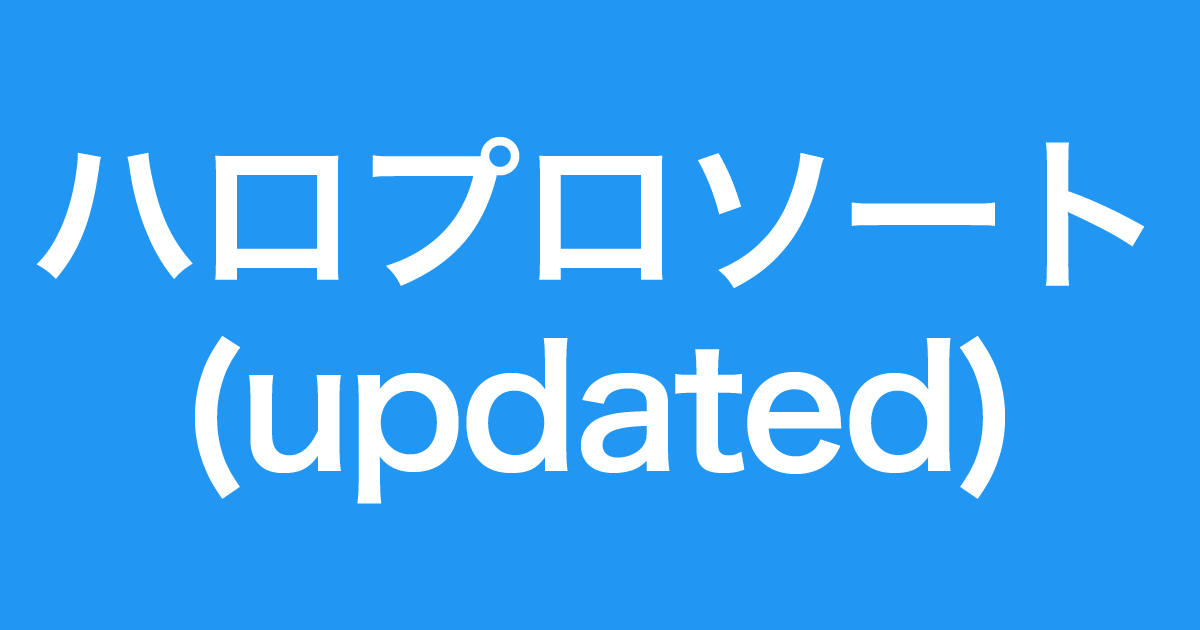
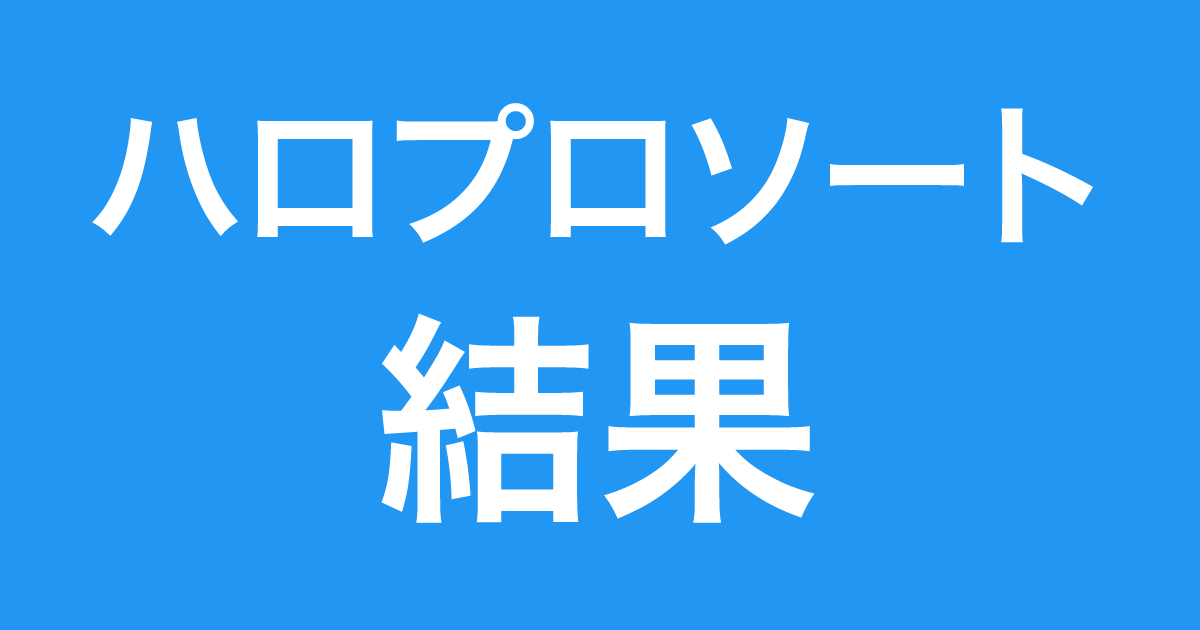
スタイルの微調整

Changed region(s): [[0.1542, 0.4825, 0.8633, 0.8444], [0.0308, 0.1508, 0.9558, 0.4524]]

diff --git a/src/App.tsx b/src/App.tsx
@@ -19,11 +19,12 @@ interface State {
   round: number;
 }
 
+const TITLE = "ハロプロソート";
+
 export default class App extends React.Component<Props, State> {
   render() {
-    const title = "ハロプロソート(updated)";
     return (
-      <Layout title={title}>
+      <Layout title={TITLE}>
         <Router basename={process.env.PUBLIC_URL}>
           <Route exact path="/" component={Home} />
           <Route exact path="/pandasan" component={Panda} />
@@ -40,13 +41,23 @@ export default class App extends React.Component<Props, State> {
 
 class Home extends React.Component<Props, State> {
   render() {
+    function helpAlert() {
+      alert("選択を繰り返すことで自分だけのランキングを作ることができます。\n今まで気づかなかった「好き」を再発見するためにご利用ください。\nソートの結果はあなたにとってのランキングであり、メンバーの優劣を意味しません。")
+    }
     return (
       <Grid container item xs={12} justifyContent="center" style={{ textAlign: "center" }} spacing={1}>
         <Grid container item xs={12} justifyContent="center" spacing={0}>
-          <h2>ハロプロソート(updated)</h2>
+          <h1>{TITLE}</h1>
         </Grid>
         <Grid container item xs={12} justifyContent="center" spacing={0}>
-          <p>(updated)なハロプロソートです。<br />ソートアルゴリズムに<a href="https://en.wikipedia.org/wiki/Merge-insertion_sort">Ford-Johnson法</a>を採用しています。<br /><br />定期更新終了を宣言された本家様を勝手に引き継ぎ、新技術を反映しつつ鋭意改良中です。<br />(2021/12/1 メンバー情報の更新)</p>
+          <p>ハロプロソートは、あなたの毎日に小さな喜びを届けていきます。小さな選択が、いつしか大きなランキングとなって、人生を輝かせていく…</p>
+          <p>そんなコンセプトで、お送りするツールです。</p>
+        </Grid>
+        <Grid container item xs={12} justifyContent="center" spacing={0}>
+          <p>(2021/12/1 メンバー情報の更新)</p>
+        </Grid>
+        <Grid container item xs={12} justifyContent="center" spacing={0}>
+          <p><a href="./" onClick={helpAlert}>🔰ハロプロソートとは？🔰</a></p>
         </Grid>
         <Grid container item xs={12} justifyContent="center"><Button href="hp" style={{ background: 'linear-gradient(45deg, #2196f3 30%, #21cbf3 90%)', color: 'white', fontWeight: 'bold', height: 40 }}>ハロプロ全員ソート</Button></Grid>
         <Grid container item xs={12} justifyContent="center"><Button href="hptrainee" style={{ background: 'linear-gradient(45deg, #2196f3 30%, #21cbf3 90%)', color: 'white', fontWeight: 'bold', height: 40 }}>ハロプロ全員ソート(研修生含む)</Button></Grid>
@@ -56,14 +67,15 @@ class Home extends React.Component<Props, State> {
         <Grid container item xs={12} justifyContent="center"><Button href="pandasan" style={{ background: 'linear-gradient(45deg, #11A316 30%, #11BF16 90%)', color: 'white', fontWeight: 'bold', height: 40 }}>🐼パンダさんソート🐼</Button></Grid>
         */}
         <Grid container item xs={12} justifyContent="center" spacing={0}>
+          <p>定期更新終了を宣言された本家様を引き継ぎました。</p>
+          <p>ソートアルゴリズムに<a href="https://en.wikipedia.org/wiki/Merge-insertion_sort">Ford-Johnson法</a>を採用しています。</p>
           <p><a href="https://twitter.com/xxgentaroxx" target="_blank" rel="noreferrer">@xxgentaroxx</a>大先生による、歴代ハロプロメンバーの<a href="https://github.com/xxgentaroxx/HP_DB" target="_blank" rel="noreferrer">オープンデータ</a>から自動生成しています。</p>
           <p>「引き分け」ボタンを1回押すと比較回数が4-5回減ります。急いでいる方は活用してください。</p>
-          <p>所属は「直近まで所属している(た)グループ・ユニットのうち、加入日が最も早いもの」としています。</p>
         </Grid>
         <Grid container item xs={12} justifyContent="center" spacing={0}>
           <p>
-            <Button href="https://twitter.com/emolga587" target="_blank" variant="contained" size="small" style={{ backgroundColor: "#00ACEE", color: "#ffffff", textTransform: "none", margin: 1 }}><FontAwesomeIcon icon={faTwitter} />&nbsp;Twitter</Button>
-            <Button href="https://github.com/emolga587/hpsort2" target="_blank" variant="contained" size="small" style={{ backgroundColor: "#000000", color: "#ffffff", textTransform: "none", margin: 1 }}><FontAwesomeIcon icon={faGithub} />&nbsp;GitHub</Button>
+            <Button href="https://twitter.com/emolga587" target="_blank" size="small" style={{ backgroundColor: "#00ACEE", color: "#ffffff", textTransform: "none", margin: 2 }}><FontAwesomeIcon icon={faTwitter} />&nbsp;Twitter</Button>
+            <Button href="https://github.com/emolga587/hpsort2" target="_blank" size="small" style={{ backgroundColor: "#000000", color: "#ffffff", textTransform: "none", margin: 2 }}><FontAwesomeIcon icon={faGithub} />&nbsp;GitHub</Button>
           </p>
         </Grid>
       </Grid>

diff --git a/src/components/SortPage.tsx b/src/components/SortPage.tsx
@@ -39,7 +39,7 @@ export default class SortPage extends React.Component<Props, State> {
       let rankTable: JSX.Element[] = [];
       let tweet_url: string = "https://twitter.com/intent/tweet?text=" + encodeURI(`${this.props.sortName}結果\n`);
       let max_output = 10;
-      if (this.props.members.length < 15) {
+      if (this.props.members.length < 20) {
         max_output = 5;
       }
 
@@ -70,7 +70,7 @@ export default class SortPage extends React.Component<Props, State> {
           <h2 style={{ marginBottom: 0 }}>{this.props.sortName}結果</h2>
         </Grid>
         <Grid container item xs={12} justifyContent="center">
-          <p style={{ marginTop: 0, marginBottom: 10 }}>【ラウンド{this.sort.currentRound} - {this.sort.progress}%】</p>
+          <p style={{ marginTop: 0, marginBottom: 10 }}>ラウンド{this.sort.currentRound} - {this.sort.progress}%</p>
         </Grid>
         <Grid container item md={6} xs={12} justifyContent="center">
           <Grid container item xs={12} justifyContent="center">
@@ -118,7 +118,7 @@ export default class SortPage extends React.Component<Props, State> {
               <h2 style={{ marginBottom: 0 }}>{this.props.sortName}</h2>
             </Grid>
             <Grid container item xs={12} justifyContent="center">
-              <p style={{ marginTop: 0, marginBottom: 5 }}>【ラウンド{this.sort.currentRound} - {this.sort.progress}%】</p>
+              <p style={{ marginTop: 0, marginBottom: 5 }}>ラウンド{this.sort.currentRound} - {this.sort.progress}%</p>
             </Grid>
             <Grid container item xs={6} justifyContent="center">
               <MemberPicture name={this.sort.lastChallenge[0]}
@@ -151,7 +151,7 @@ export default class SortPage extends React.Component<Props, State> {
               </Button>
             </Grid>
             <Grid container item xs={12} justifyContent="center">
-              <Button variant="contained" size="large" style={{ backgroundColor: "#444", color: "white" }}
+              <Button size="large" style={{ backgroundColor: "#444", color: "white" }}
                 onClick={() => {
                   if (this.sort.backable) {
                     this.sort.back();

diff --git a/public/index.html b/public/index.html
@@ -7,7 +7,7 @@
   <meta name="viewport" content="width=device-width, initial-scale=1" />
   <meta name="theme-color" content="#000000" />
   <meta name="description" content="(updated)なハロプロソートです。定期更新終了を宣言された本家様を勝手に引き継ぎ、新技術を反映しつつ鋭意改良中です。" />
-  <meta property="og:title" content="ハロプロソート(updated)" />
+  <meta property="og:title" content="ハロプロソート" />
   <meta property="og:description" content="(updated)なハロプロソートです。定期更新終了を宣言された本家様を勝手に引き継ぎ、新技術を反映しつつ鋭意改良中です。" />
   <meta property="og:image" content="http://16be.at/sort/ogp.png" />
   <meta name="twitter:card" content="summary_large_image" />
@@ -26,8 +26,7 @@
       work correctly both with client-side routing and a non-root public URL.
       Learn how to configure a non-root public URL by running `npm run build`.
     -->
-  <link href="https://fonts.googleapis.com/css2?family=Kosugi+Maru&display=swap" rel="stylesheet" />
-  <title>ハロプロソート(updated)</title>
+  <title>ハロプロソート</title>
   <script>
     console.warn("🐼パンダさんソートはこちら🐼\nhttps://16be.at/sort/pandasan");
   </script>

diff --git a/src/components/Header.tsx b/src/components/Header.tsx
@@ -12,11 +12,10 @@ interface State { }
 export default class Header extends React.Component<Props, State> {
   render() {
     return (
-      <AppBar position="static" style={{background: 'linear-gradient(45deg, #2196F3 30%, #21CBF3 70%, #2196F3 90%)'}}>
+      <AppBar position="static" style={{color: 'white', backgroundColor: "rgb(33, 150, 243)", boxShadow: "none"}}>
         <Toolbar>
-          <Typography variant="h5" style={{flexGrow: 1, fontFamily: "Kosugi Maru"}}>{this.props.children}</Typography>
+          <Typography variant="h5" style={{flexGrow: 1, fontWeight: 500}}>{this.props.children}</Typography>
           <IconButton
-            aria-label="account of current user"
             aria-controls="menu-appbar"
             aria-haspopup="true"
             color="inherit"

diff --git a/src/index.css b/src/index.css
@@ -1,8 +1,6 @@
 body {
   margin: 0;
-  font-family: -apple-system, BlinkMacSystemFont, 'Segoe UI', 'Roboto', 'Oxygen',
-    'Ubuntu', 'Cantarell', 'Fira Sans', 'Droid Sans', 'Helvetica Neue',
-    sans-serif;
+  font-family: "Hiragino Kaku Gothic Pro", "BIZ UDPGothic", sans-serif;
   -webkit-font-smoothing: antialiased;
   -moz-osx-font-smoothing: grayscale;
 }

diff --git a/src/App.css b/src/App.css
@@ -4,12 +4,19 @@
 
 .MuiTypography-h5 {
   font-size: 1em;
-}
-
-h2 {
-  font-family: 'Kosugi', sans-serif;
+  font-family: "Hiragino Kaku Gothic Pro", "BIZ UDPGothic", sans-serif;
+  font-weight: bold;
 }
 
 a {
   color:#444;
+}
+
+p {
+  font-size: 0.9em;
+  margin: 0.3em;
+}
+
+h1 {
+  margin-bottom: 0;
 }
